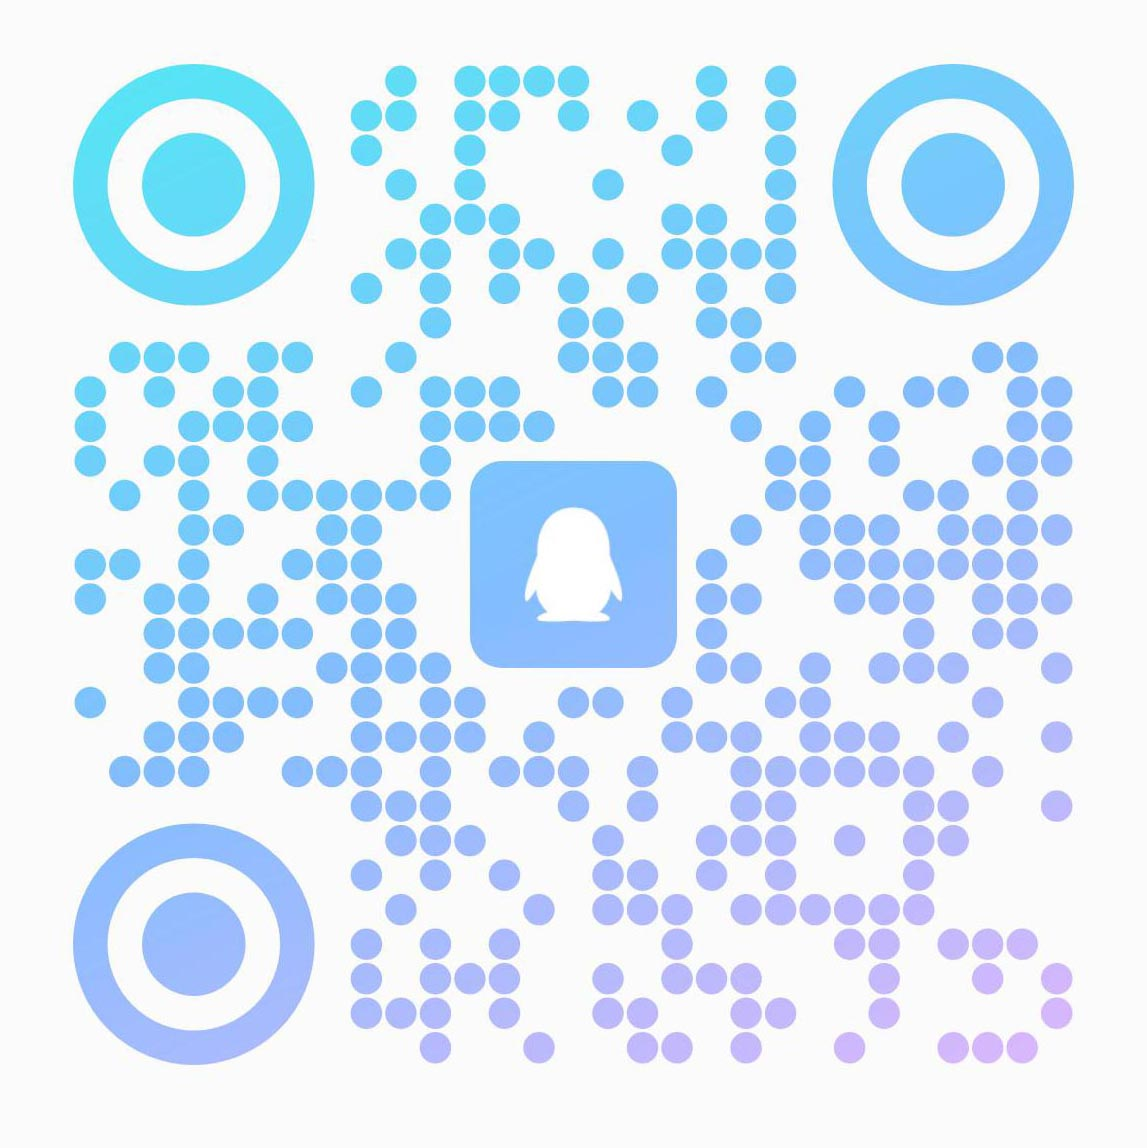
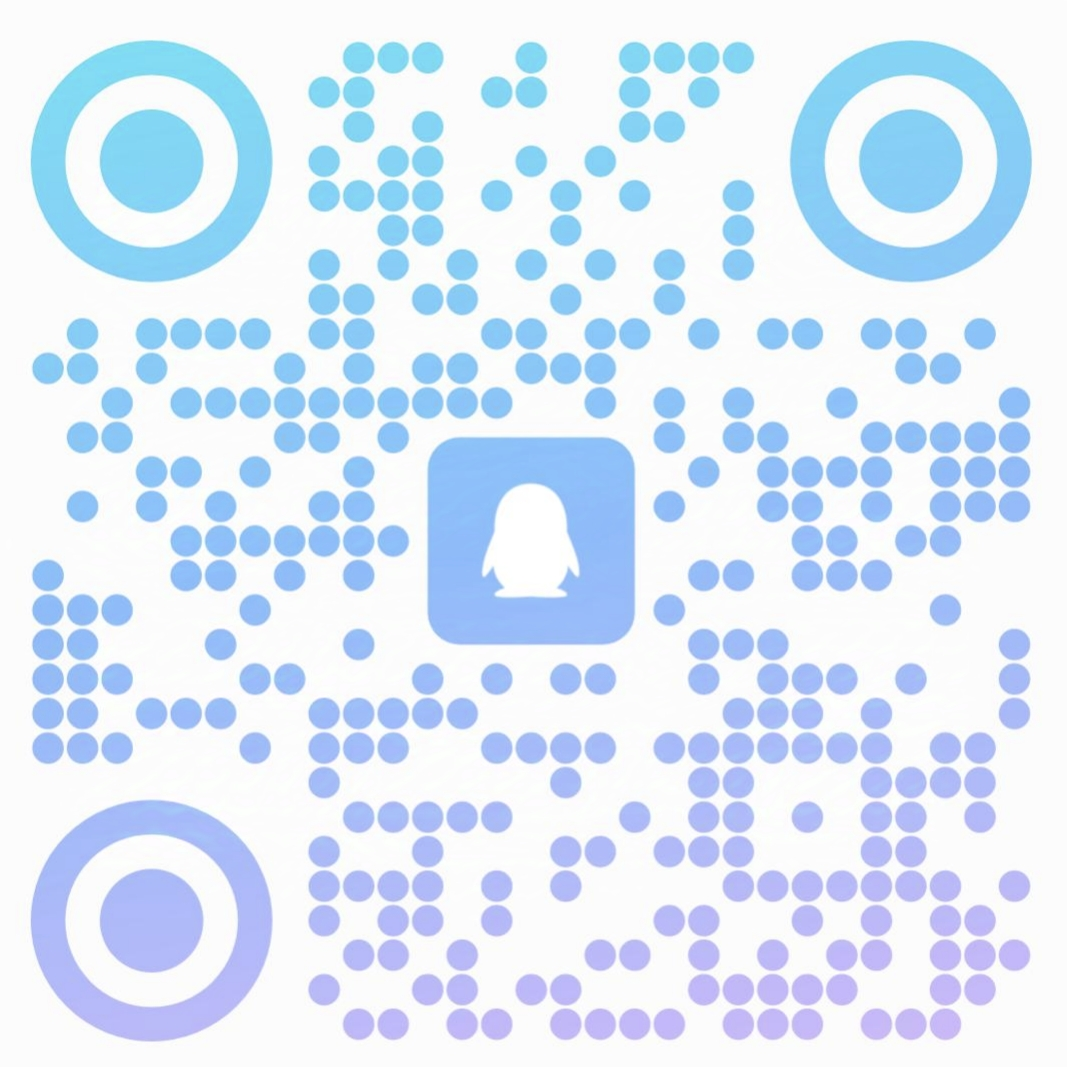
更新招新群二维码和群号为2025赛季招新 优化了一些超链接以新标签页打开 更新了招新申请表为2025赛季招新申请表

diff --git a/index.html b/index.html
@@ -314,7 +314,7 @@
                         <div class="contact-content">
                             <h3>&nbsp;</h3>
                             <h3>Bilibili</h3>
-                            <a href="https://b23.tv/FXBCDjJ">成都大学ultra战队
+                            <a href="https://b23.tv/FXBCDjJ"  target="_blank">成都大学ultra战队
                                 <img src="https://s1.hdslb.com/bfs/static/jinkela/space/asserts/icon-auth.png"
                                     alt="bilibili小电视" width="110" class="img-responsive center-block"></a>
                         </div>
@@ -347,11 +347,11 @@
                             <h3>&nbsp;</h3>
                             <h3>QQ群</h3>
                             <a
-                                href="http://qm.qq.com/cgi-bin/qm/qr?_wv=1027&k=4KOlyNsspts1KGXd5cEvtPBCM30DcFOt&authKey=9X57SLwTUpr%2BGEqaRd%2F0RpKKFyc7EXLxsvE5D%2F7wC9VqzMGlDFY4Cv05qvCyYuuq&noverify=0&group_code=905039280">
+                                href="http://qm.qq.com/cgi-bin/qm/qr?_wv=1027&k=f_OmVMCsnYUY2NsE8qxfTcxA-finr_Dy&authKey=mOf6JppJ3eYKRPxvzKgNNplgZn7%2FB5%2BzhqalSja9jPR0jwHUQR8OML6mVLIJdWgz&noverify=0&group_code=792806170"
+                                target="_blank">
                                 <img src="https://activity.hdslb.com/zzjs/20160608appDownload/img/pc/icon-qq1.png"
-                                alt="QQ" height="25" width="25">&nbsp;905039280
-                                <img src="./img/team.jpg"
-                                    alt="QQ" class="img-responsive center-block" height="129"
+                                    alt="QQ" height="25" width="25">&nbsp;792806170
+                                <img src="./img/team.jpg" alt="QQ" class="img-responsive center-block" height="129"
                                     width="129">
                             </a>
                         </div>
@@ -366,7 +366,7 @@
                         <div class="contact-content">
                             <h3>&nbsp;</h3>
                             <h3> 战队小U</h3>
-                            <a href="https://user.qzone.qq.com/335326804">
+                            <a href="https://user.qzone.qq.com/335326804"  target="_blank">
                                 <img src="https://activity.hdslb.com/zzjs/20160608appDownload/img/pc/icon-qq1.png"
                                     alt="QQ" height="25" width="25">&nbsp;335326804
                                 <img src="./img/U.jpg" alt="QQ" class="img-responsive center-block" height="129"
@@ -396,11 +396,11 @@
                         <ul class="list-inline">
                             <li><a href="#">Home</a>
                             </li>
-                            <li><a href="https://www.cdu.edu.cn/">成都大学官网</a>
+                            <li><a href="https://www.cdu.edu.cn/"  target="_blank">成都大学官网</a>
                             </li>
-                            <li><a href="https://www.robomaster.com/">RoboMaster官网</a>
+                            <li><a href="https://www.robomaster.com/"  target="_blank">RoboMaster官网</a>
                             </li>
-                            <li><a href="https://bbs.robomaster.com/">RoboMaster官方论坛</a>
+                            <li><a href="https://bbs.robomaster.com/"  target="_blank">RoboMaster官方论坛</a>
                             </li>
                         </ul>
                     </div>
@@ -412,7 +412,7 @@
                     <div class="footer-content text-right">
                         <p>实验室地址：机械工程学院四楼M414</p>
                         <p>网站维护联系方式：Limesn@outlook.com</p>
-                        <p>Copyright &copy; 2023.CDU Ultra RoboMaster All rights reserved.</p>
+                        <p>Copyright &copy; 2024.CDU Ultra RoboMaster All rights reserved.</p>
                     </div>
                 </div>
                 <!-- END FOOTER CONTENT -->
